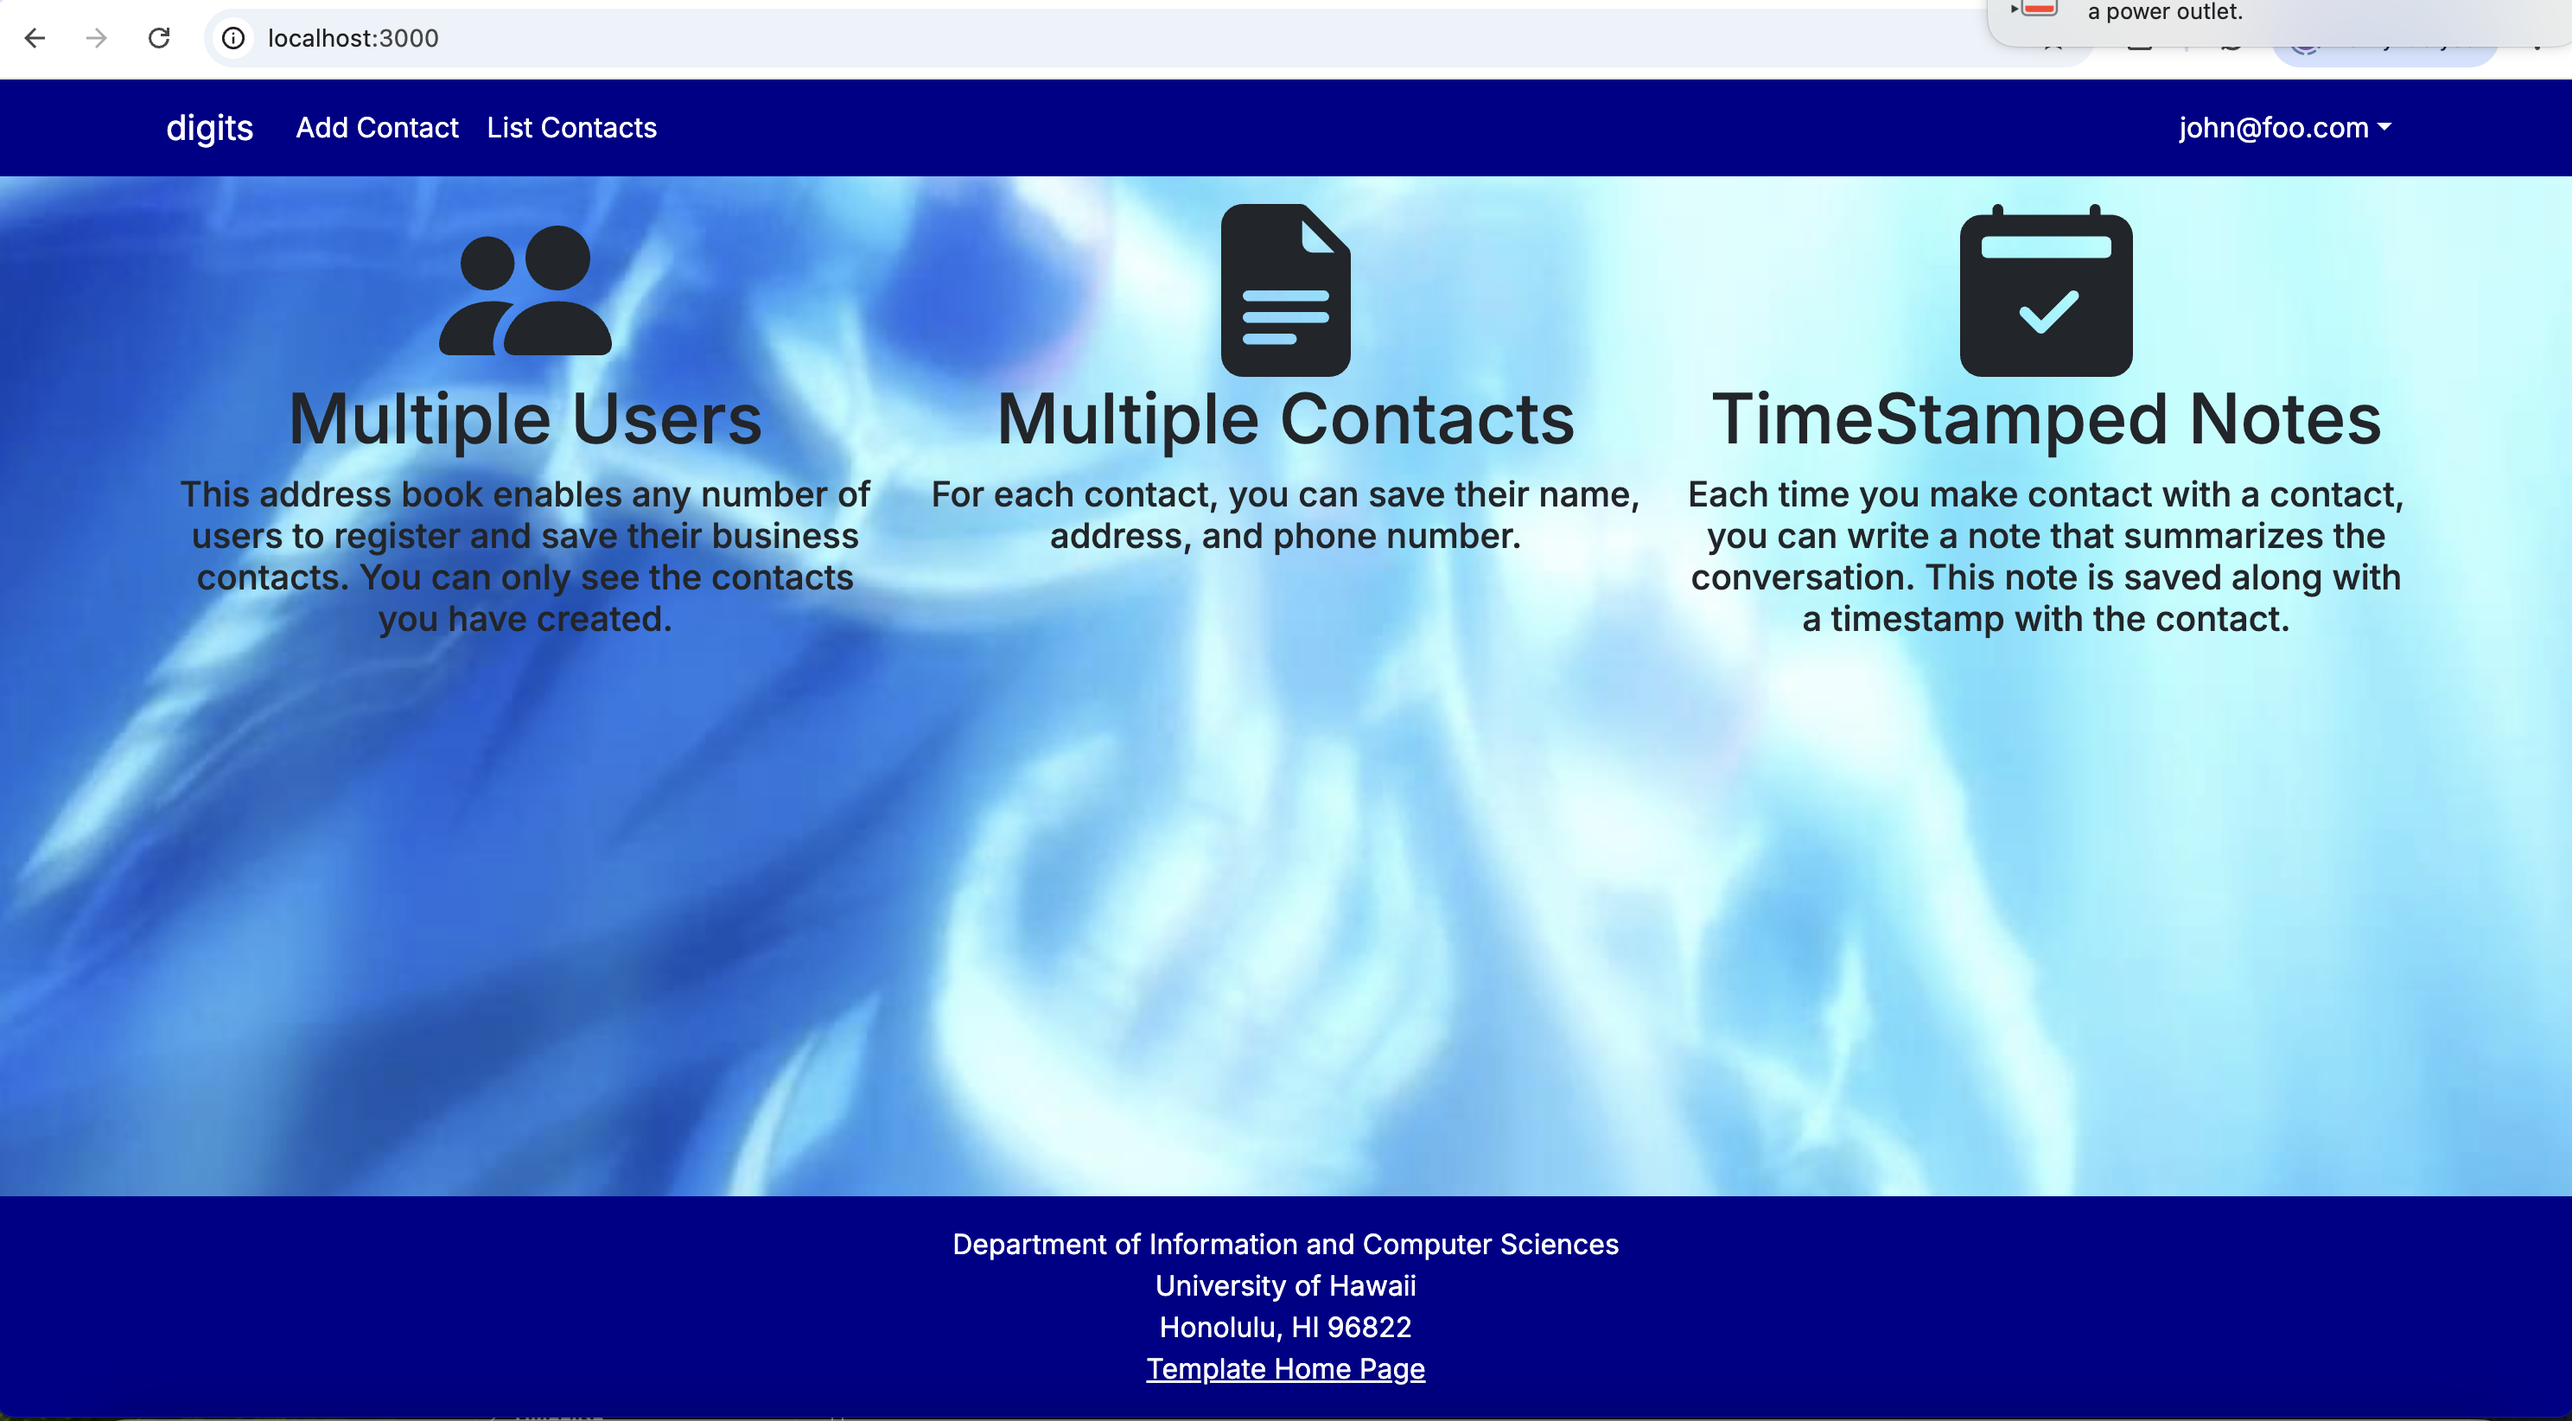
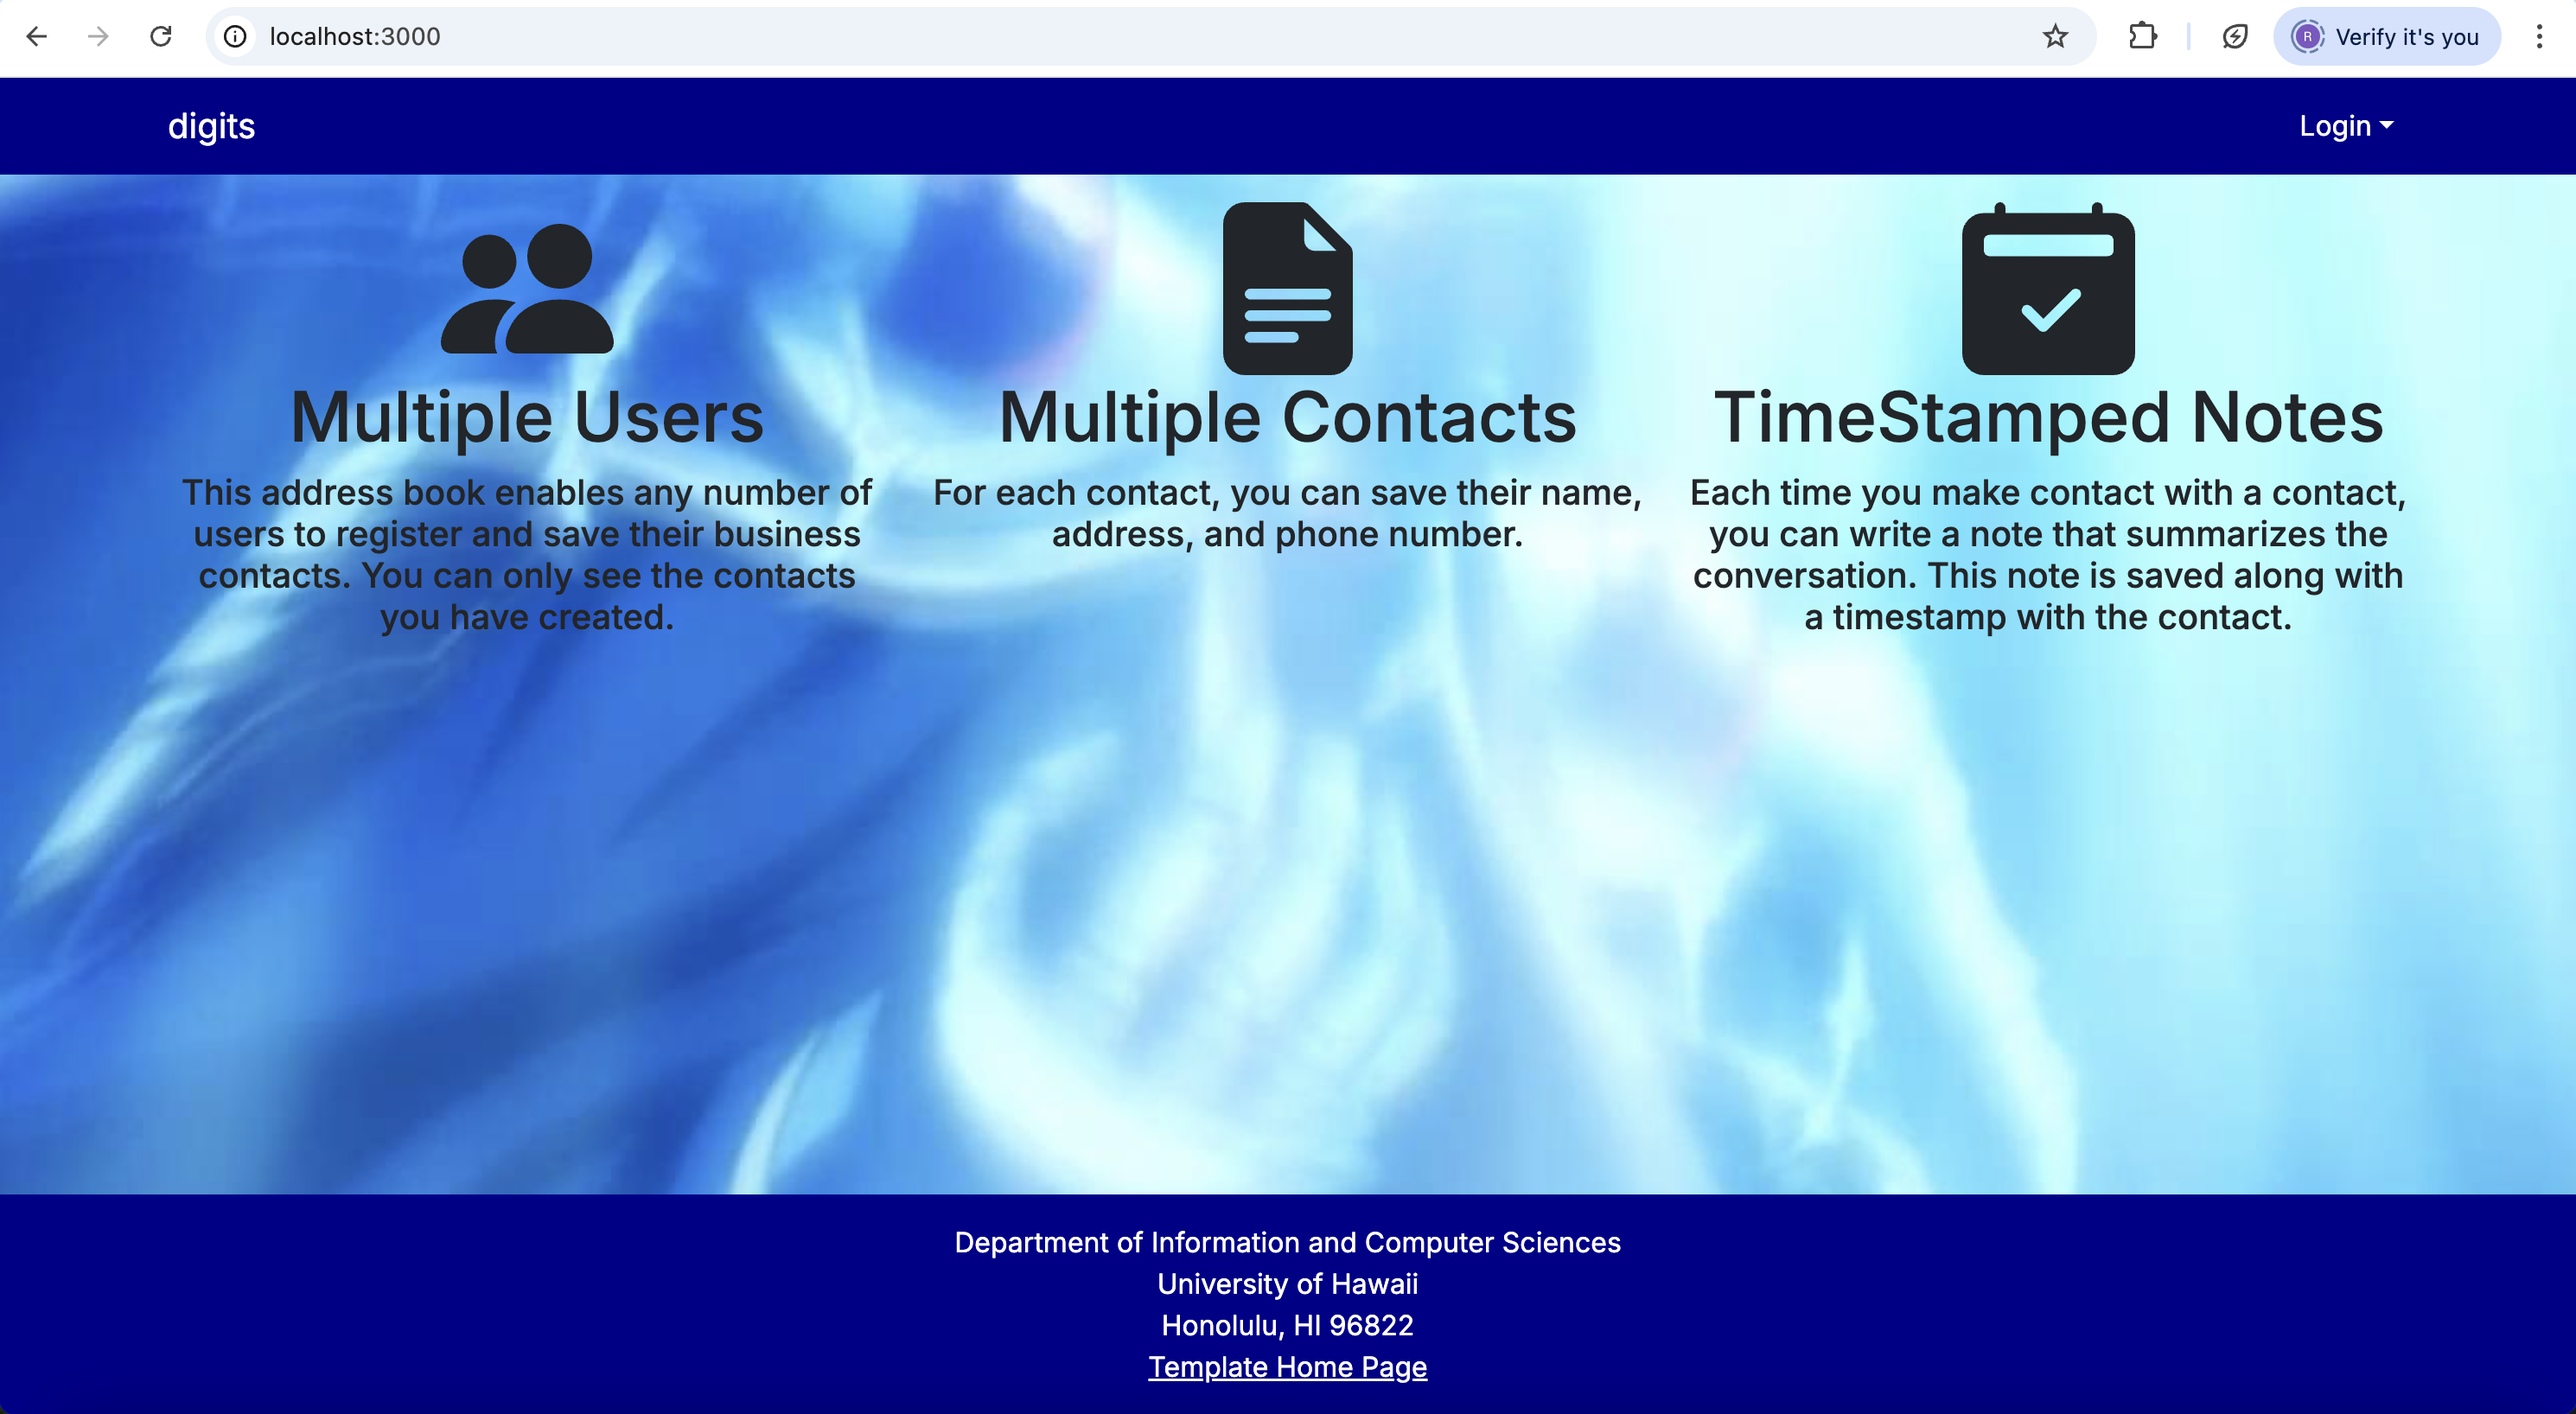
testing

diff --git a/index.md b/index.md
@@ -114,17 +114,18 @@ $ npm run lint
 $
 ```
 
-## User Interface Walkthrough
+# User Interface Walkthrough
 
-# Landing page
+## Landing page
 When you first bring up the application, you will see the landing page that provides a brief introduction to the capabilities of Digits:
 
 <img src="doc/landing-page1.png">
 
-# Register
+## Register
 
-The top-level directory structure is:
+If you do not yet have an account on the system, you can register by clicking on “Login”, then “Sign Up”:
 
+<img src="doc/register-page1.png">
 ```
 
 .github # holds the GitHub Continuous Integration action and Issue template.
